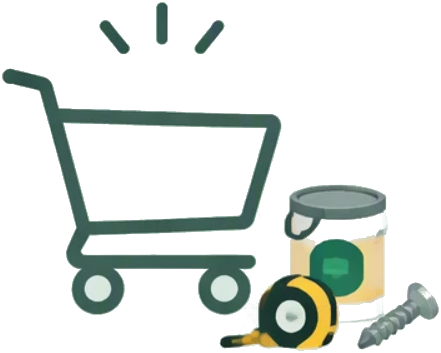
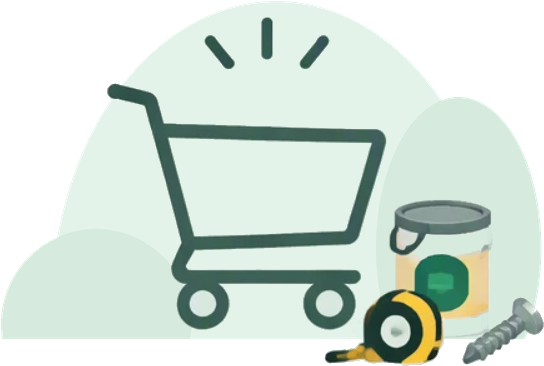
Maqueta de Vender sin productos: el dibujo con sus semicírculos verdes (003-T003)
Claude-Session: https://claude.ai/code/session_01Ah2ZvcYCRUoJJvpYcjmiKQ

diff --git a/specs/003-ventas/maquetas/celular-venta-vacia.js b/specs/003-ventas/maquetas/celular-venta-vacia.js
@@ -4,7 +4,7 @@
   const st = document.createElement("style");
   st.textContent = `
   .vacio.mq{margin-top:12px;gap:6px;padding:0}
-  .vacio.mq .mq-dibujo{width:230px;height:auto;display:block}
+  .vacio.mq .mq-dibujo{width:260px;height:auto;display:block}
   .vacio.mq strong{font-size:26px;font-weight:800;margin-top:4px;color:var(--p-tinta)}
   .vacio.mq p{font-size:16px;color:var(--p-texto-2);max-width:300px}
   .mq-como{margin-top:18px;width:100%;display:grid;grid-template-columns:repeat(3,1fr);background:var(--p-fondo-2);border:1px solid var(--p-borde-suave);border-radius:16px;padding:14px 4px}
